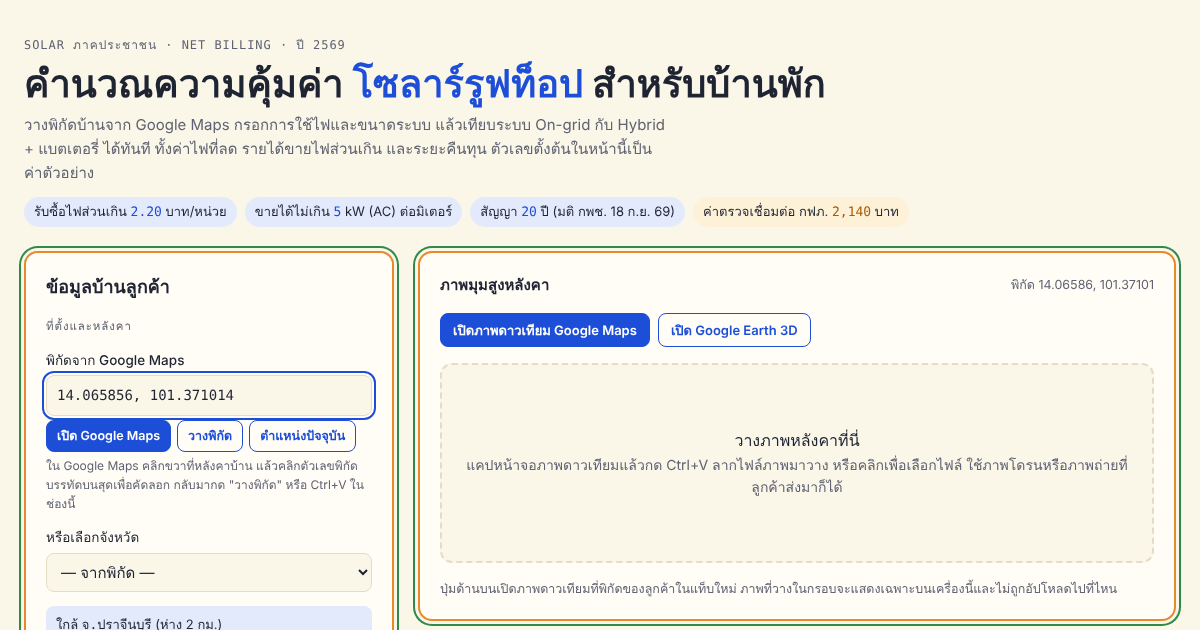
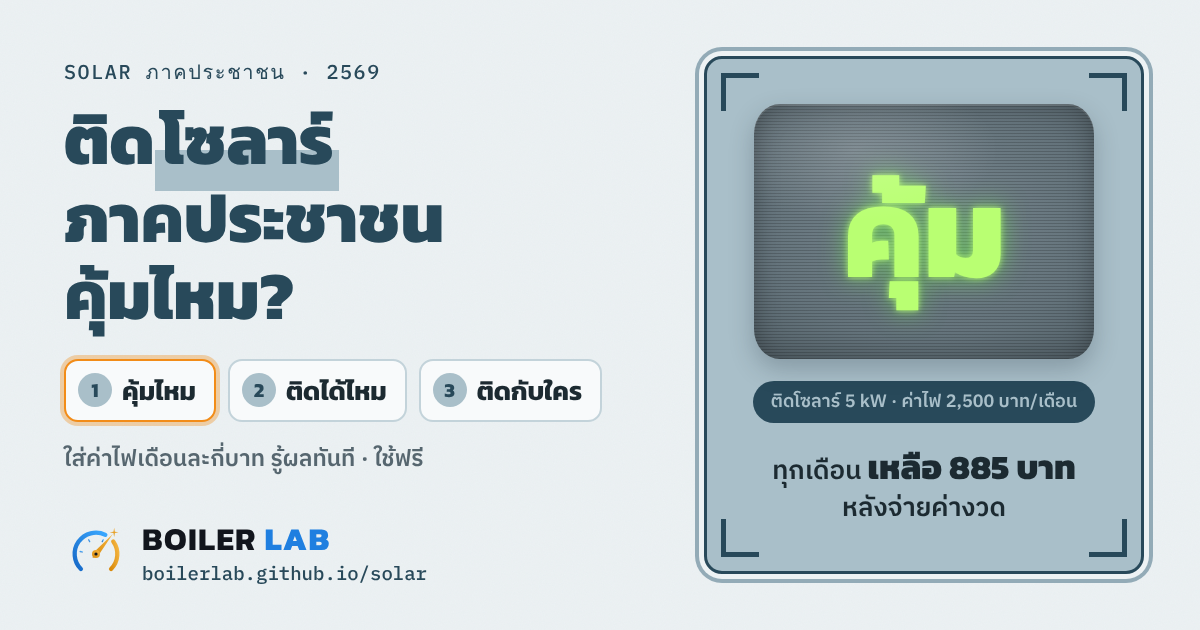
New share image matching the app; menu moved above the guide
Claude-Session: https://claude.ai/code/session_01C4MgTdE978f9VLDyMy69fb

diff --git a/index.html b/index.html
@@ -204,9 +204,9 @@ pre.summary{white-space:pre-wrap;font-family:var(--f-body);font-size:13.5px;back
 .answer .tips li{background:var(--surface)} .answer .tips li:last-child{background:#fff;border-left:4px solid var(--bad)}
 .answer .meter .bar{background:rgba(40,73,90,.18)}
 /* menu sits right under the output frame; on wide screens the questions take the right column */
-.simple>.tabs{order:-1;justify-content:center}
-.simple>.tabs .advbtn{margin-left:0}
-@media (min-width:881px){.simple>.answer{grid-column:1;grid-row:1}.simple>.tabs{grid-column:1;grid-row:2;align-self:start}.simple>.qs{grid-column:2;grid-row:1/span 2}.simple>.satbox{grid-column:1/-1;grid-row:3}}
+/* the menu sits at the bottom, just above the guide */
+#tabs{justify-content:center;padding:18px 0 4px;border-top:1px solid var(--line)}
+#tabs .advbtn{margin-left:0}
 /* before the bill is entered, tab 1 shows only the output frame and the menu */
 .simple.pre>.qs{display:none}
 .simple.pre{grid-template-columns:minmax(0,600px);justify-content:center}
@@ -1319,7 +1319,7 @@ $('copyBtn').addEventListener('click',()=>{const t=$('summary').textContent;
 function showTab(t){document.querySelectorAll('.tab').forEach(s=>{s.hidden=s.id!==t;});document.querySelectorAll('#tabs button').forEach(b=>b.setAttribute('aria-selected',String(b.dataset.t===t)));if(t==='adv'||t==='t2')requestAnimationFrame(()=>draw());
   (window._seen=window._seen||{})[t]=1;const gb=document.querySelector(`#tabs [data-t=${t}]`);if(gb)gb.classList.remove('glow');placeNav(t);}
 // the menu follows the output frame of the open tab; tabs without one get it on top
-function placeNav(t){const s=$(t),a=s.querySelector(':scope>.answer'),n=$('tabs');if(a)a.after(n);else s.before(n);}
+function placeNav(t){$('guide').before($('tabs'));}
 function glowTab(t,on){const b=document.querySelector(`#tabs [data-t=${t}]`);if(b)b.classList.toggle('glow',!!on&&!(window._seen||{})[t]);}
 document.querySelectorAll('[data-guide]').forEach(b=>b.addEventListener('click',()=>{const d=$(b.dataset.guide);d.open=true;d.scrollIntoView({behavior:'smooth',block:'start'});}));
 // tab 2 satellite section: open it, scroll to it, and start the blinking guide if no coordinates yet
@@ -1332,7 +1332,7 @@ function setGuide(i){guide=i;GUIDE.forEach((id,k)=>$(id).classList.toggle('blink
 GUIDE.forEach((id,k)=>$(id).addEventListener('click',()=>{if(guide===k)setGuide(k+1<GUIDE.length?k+1:-1);}));
 $('coords').addEventListener('paste',()=>{if(guide>=0)setGuide(-1);});
 $('coords').addEventListener('input',()=>{if(guide>=0&&parseCoords($('coords').value))setGuide(-1);});
-document.querySelectorAll('#tabs button').forEach(b=>b.addEventListener('click',()=>{showTab(b.dataset.t);const s=$(b.dataset.t),target=s.querySelector('.answer')||$('tabs');requestAnimationFrame(()=>target.scrollIntoView({behavior:'smooth',block:'start'}));}));
+document.querySelectorAll('#tabs button').forEach(b=>b.addEventListener('click',()=>{showTab(b.dataset.t);const s=$(b.dataset.t),target=s.querySelector('.answer')||s;requestAnimationFrame(()=>target.scrollIntoView({behavior:'smooth',block:'start'}));}));
 // Google Maps buttons with no house coordinates yet: find the phone's position first, then open Maps there
 function mapsAt(la,lo){return `https://www.google.com/maps/@?api=1&map_action=map&basemap=satellite&center=${la.toFixed(6)},${lo.toFixed(6)}&zoom=19`;}
 ['lnkPick','lnkMaps'].forEach(id=>$(id).addEventListener('click',e=>{
